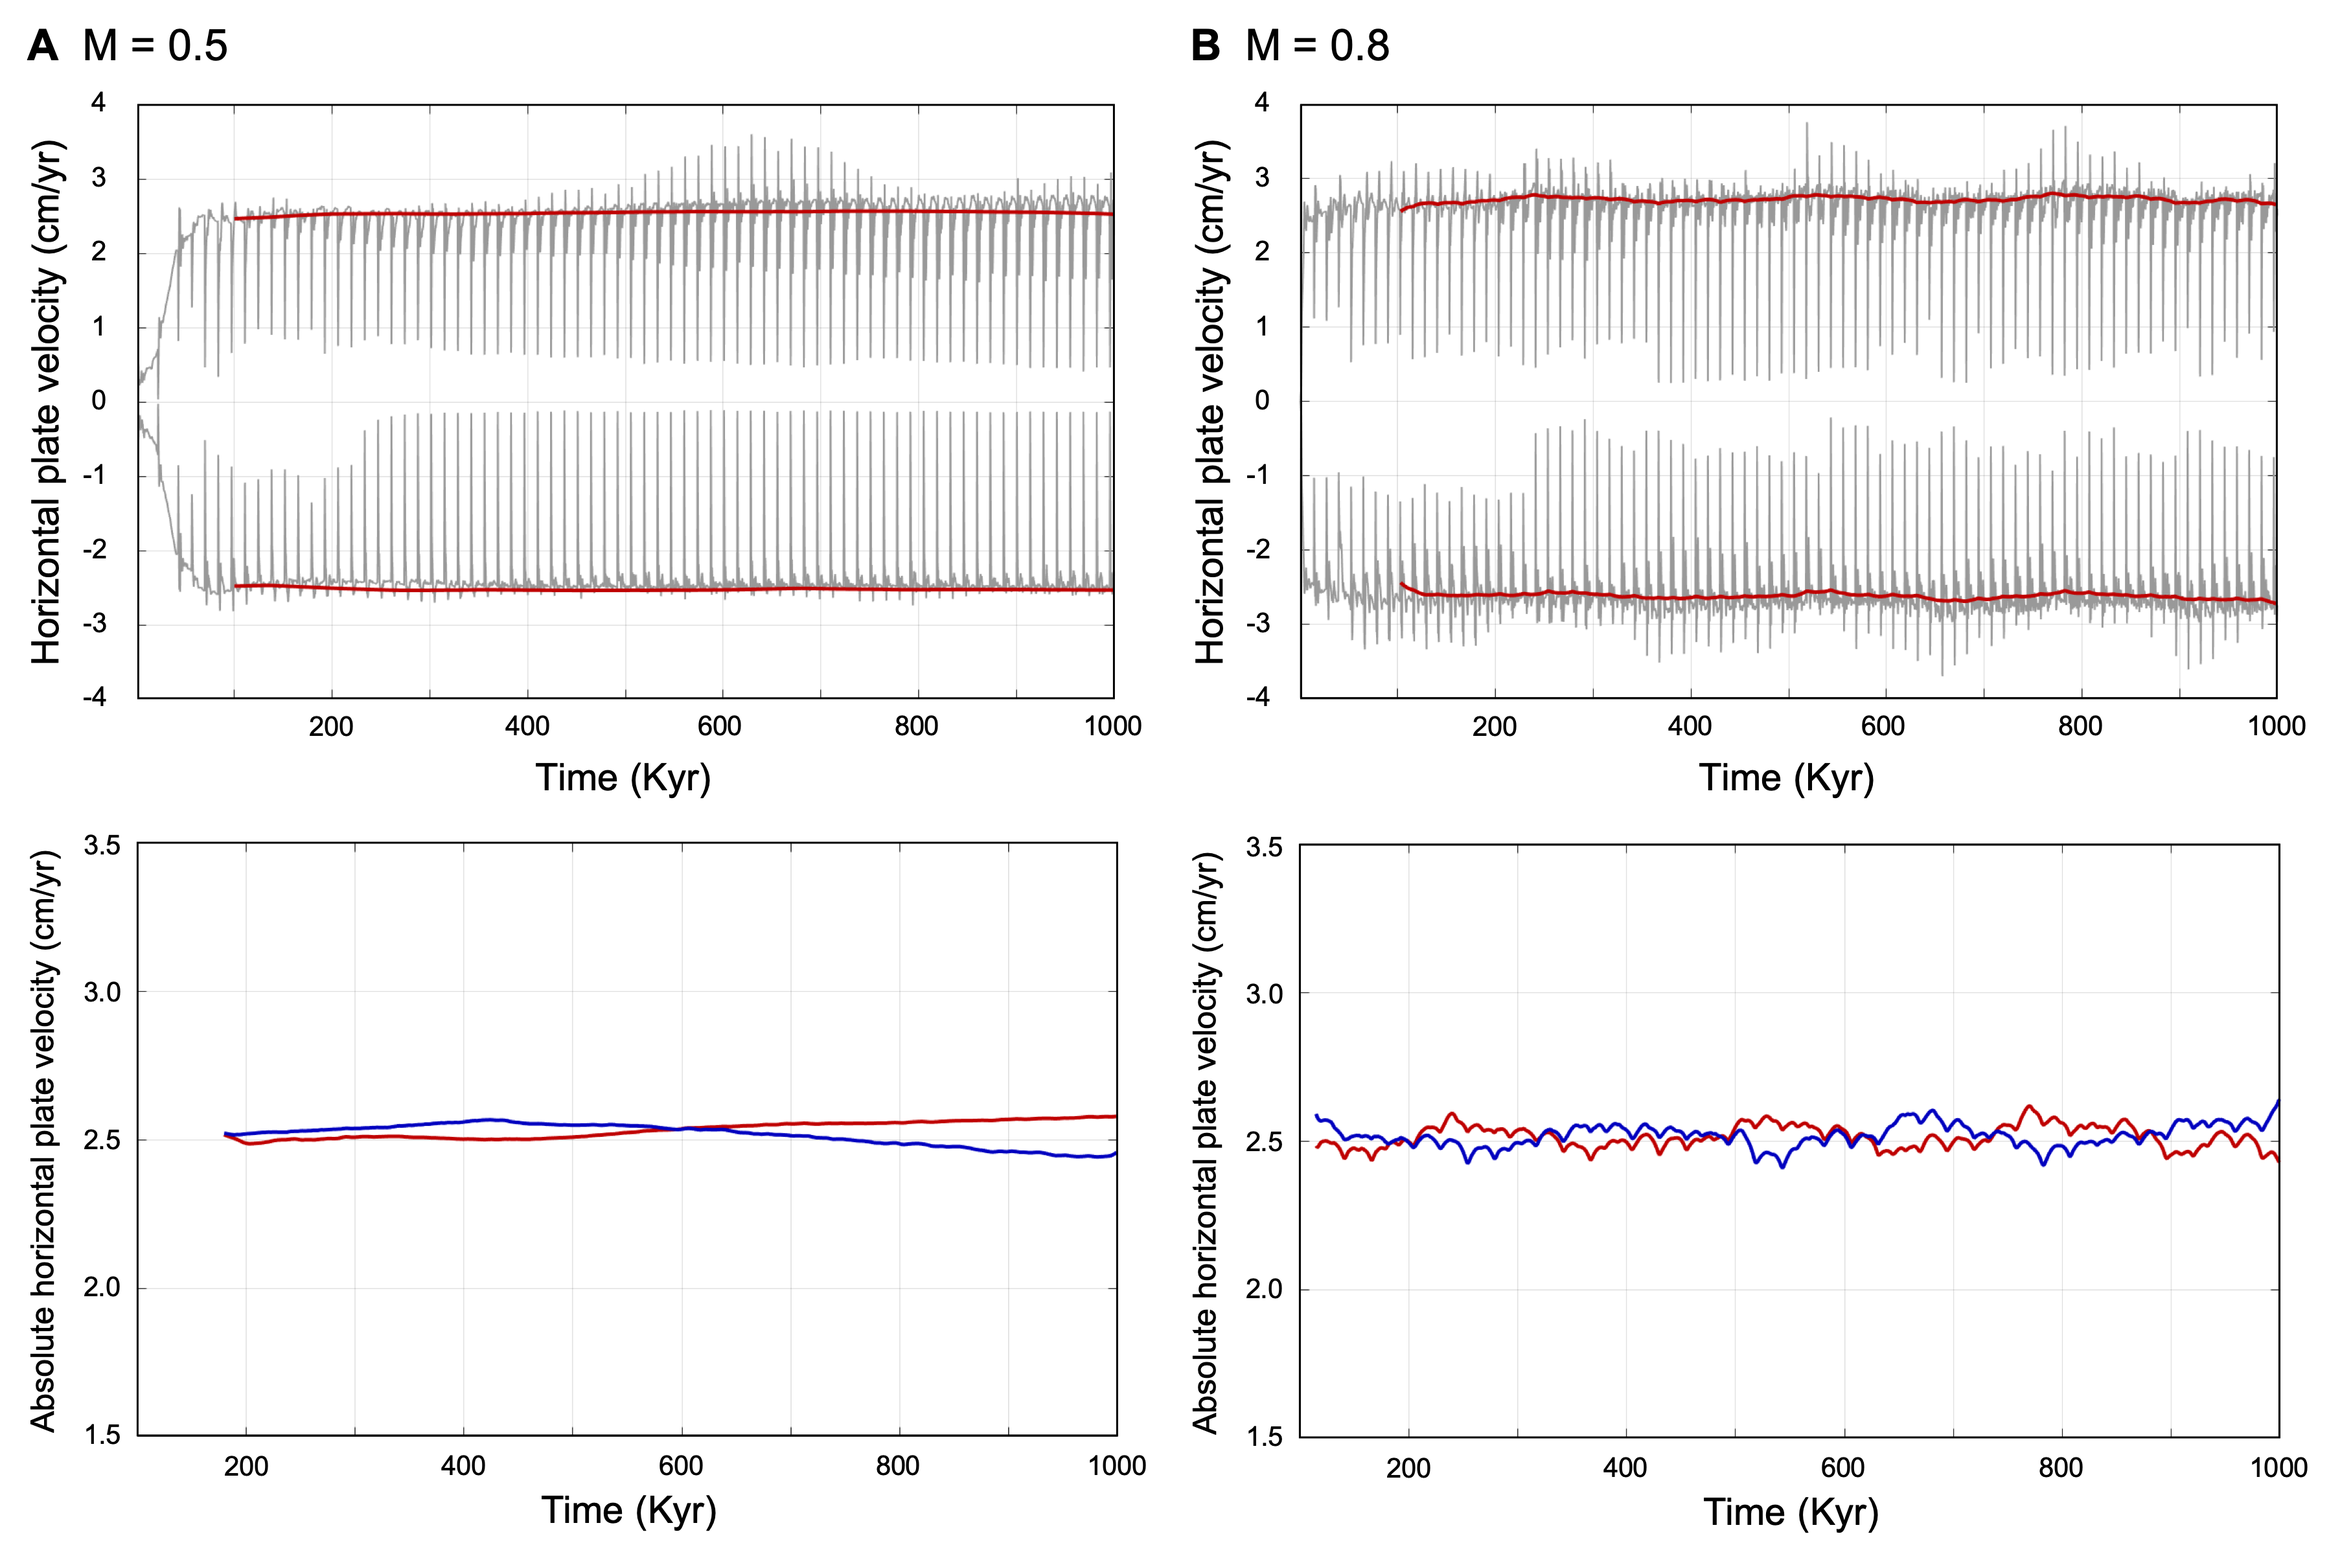
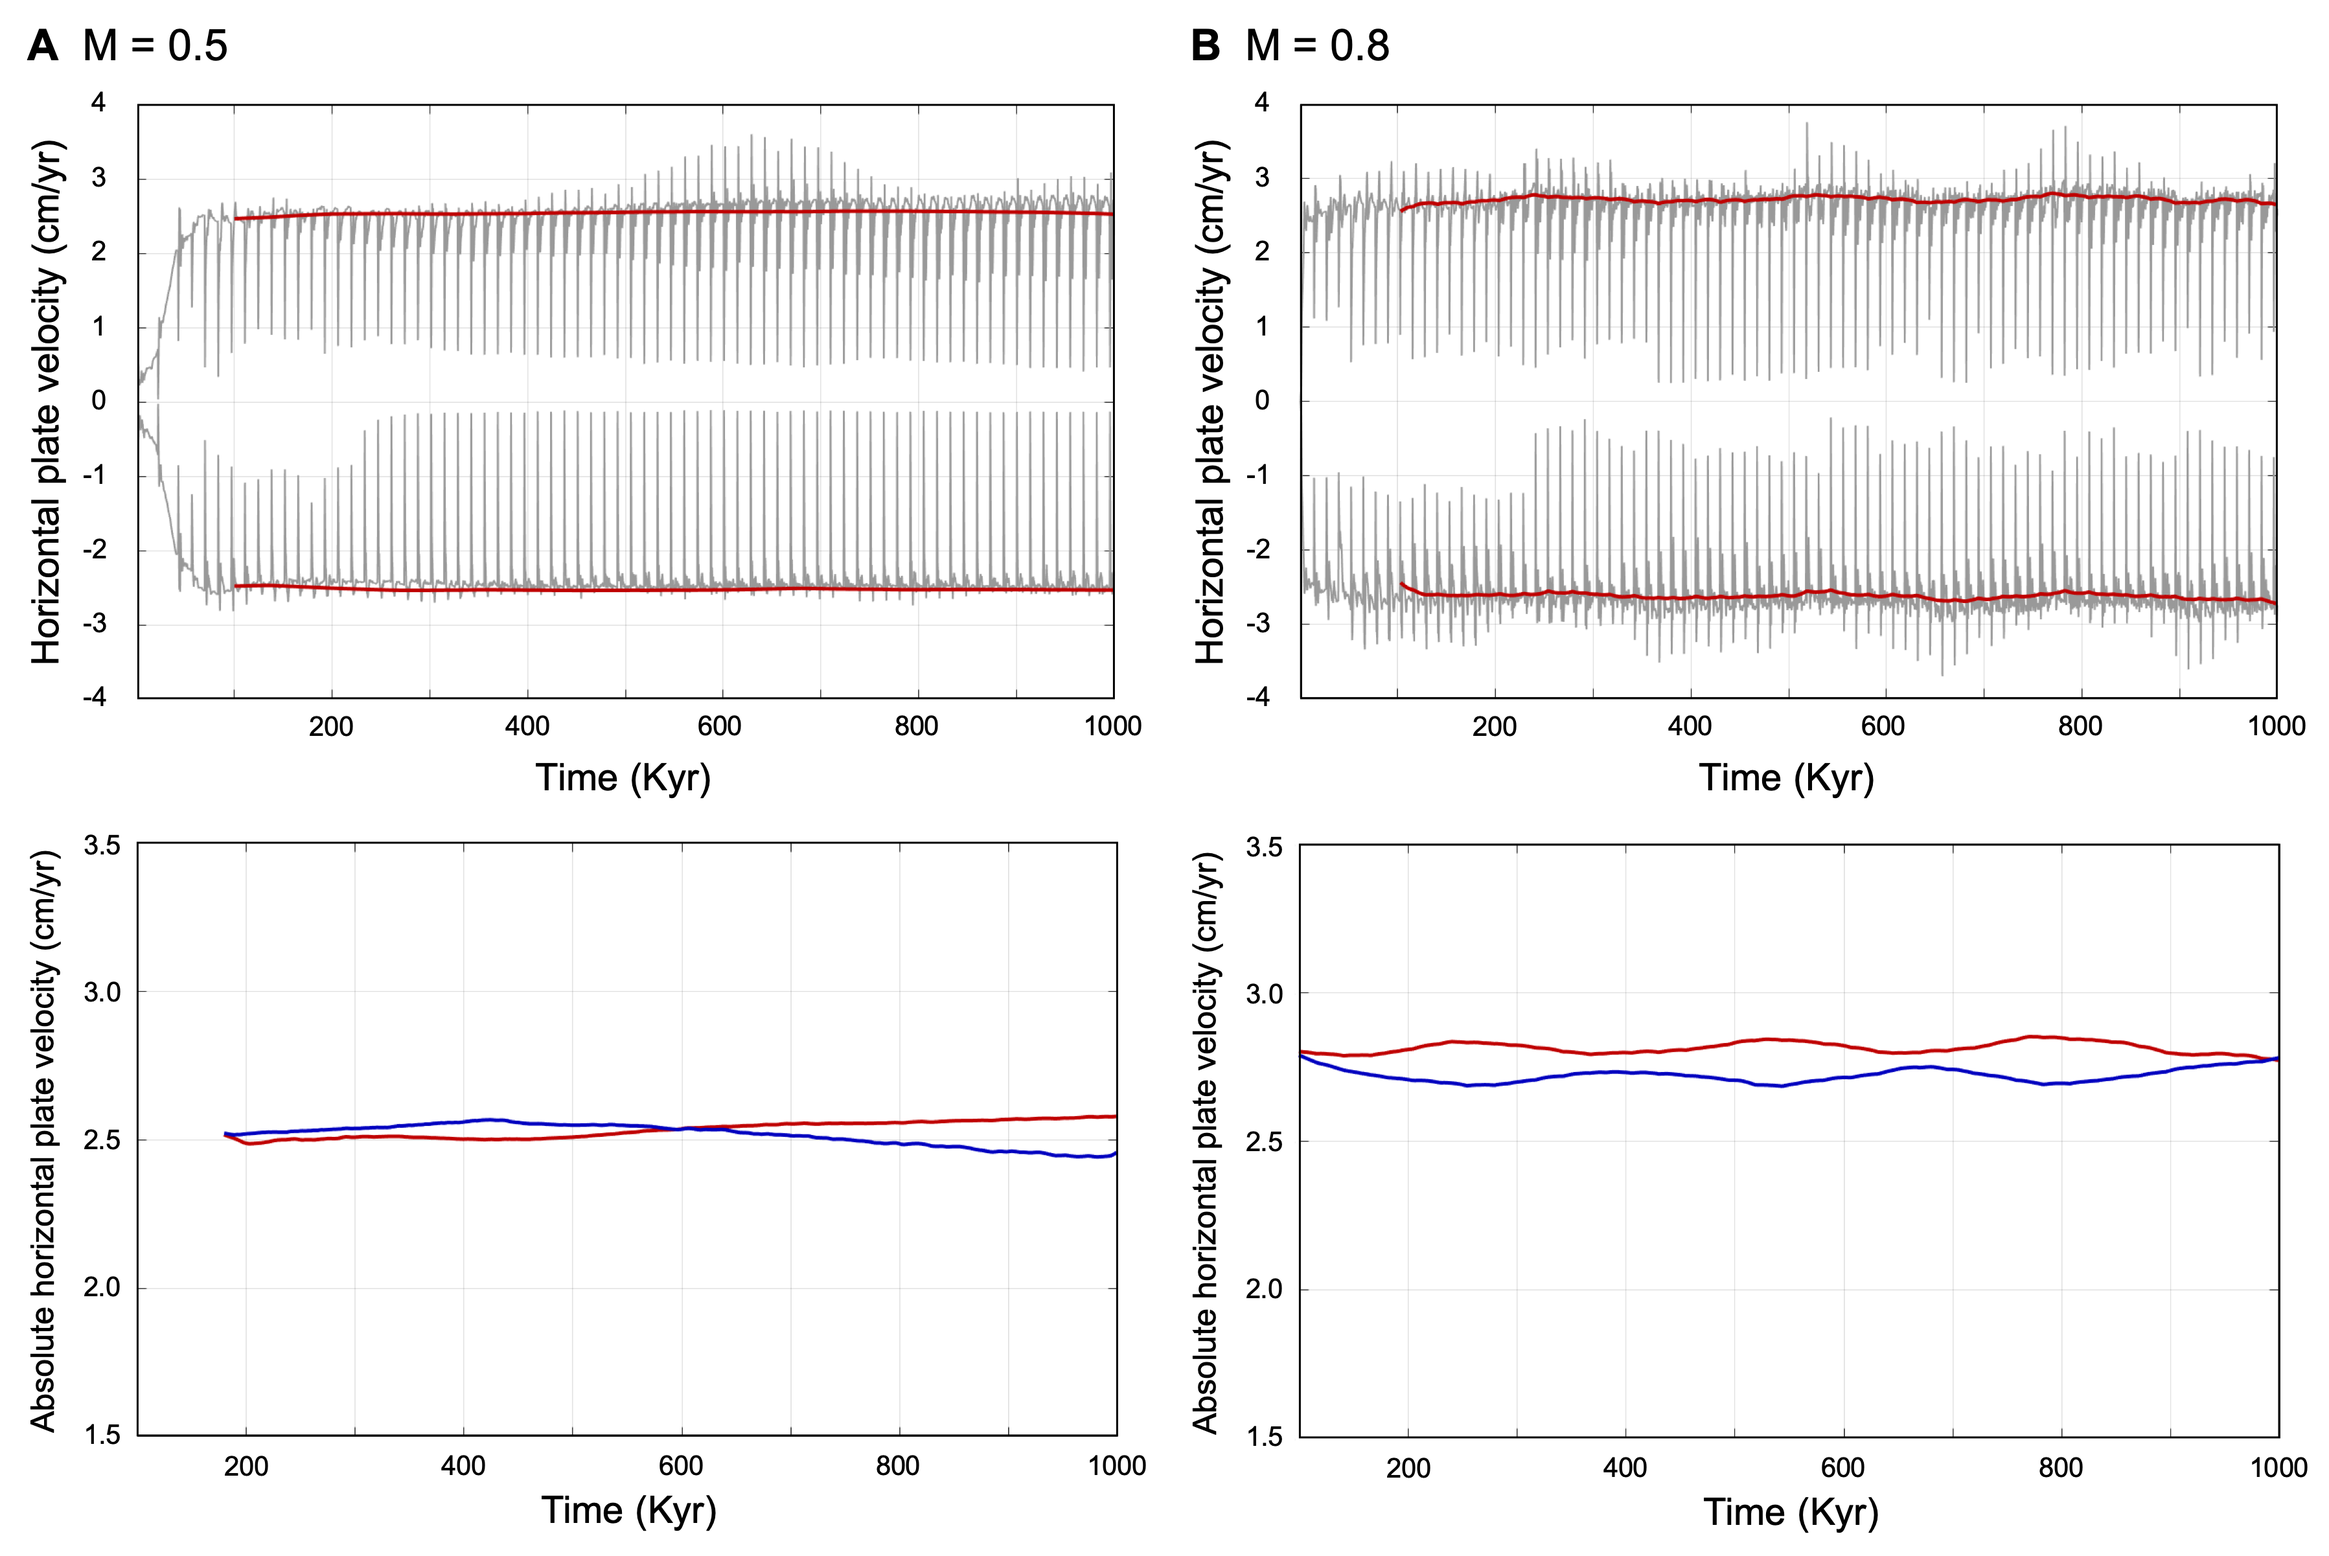
fig change

Changed region(s): [[0.5608, 0.6557, 0.9969, 0.7494]]

diff --git a/thesis.tex b/thesis.tex
@@ -462,7 +462,7 @@ Faulting styles in the models with this force boundary condition show the same c
 	\label{fig:f0fault}
 \end{figure}
 
-Filtered mean plate velocities are overall constant in time. $\overline{\boldsymbol{v}_x}$ is supposed to be constant because net forces on the side boundary nodes are zero and therefore the time rate of change of velocity should be zero on those nodes. For M = 0.5, $\overline{\boldsymbol{v}_x}$ of the plate moving to the left is 2.50 cm/yr and to the right is 2.50 cm/yr (Figure \ref{fig:f0mhv}A). When M = 0.8, $\overline{\boldsymbol{v}}_{x}$ remain constant at 2.70 cm/yr on the left-moving plate and 2.80 cm/yr on the right plate until the model ends (Figure \ref{fig:f0mhv}B).
+Filtered mean plate velocities are overall constant in time. $\overline{\boldsymbol{v}_x}$ is supposed to be constant because net forces on the side boundary nodes are zero and therefore the time rate of change of velocity should be zero on those nodes. For M = 0.5, $\overline{\boldsymbol{v}_x}$ of the plate moving to the left is 2.50 cm/yr and to the right is 2.50 cm/yr (Figure \ref{fig:f0mhv}A) with error of 0.5 cm/yr. When M = 0.8, $\overline{\boldsymbol{v}}_{x}$ remain constant at 2.70 cm/yr on the left-moving plate and 2.80 cm/yr on the right plate until the model ends (Figure \ref{fig:f0mhv}B).
 
 %Mean plate velocities are overall constant in time but show minor temporal variability. $\overline{\boldsymbol{v}_x}$ is supposed to be constant because net forces on the side boundary nodes are zero and therefore the time rate of change of velocity should be zero on those nodes. However, while variability is not large compared to 2.5 cm/yr, the intended magnitude of $\overline{\boldsymbol{v}_x}$, $\overline{\boldsymbol{v}_x}$ is not exacly 2.5 cm/yr and changes over time slightly. \note[EC]{Leave only the description of the filtered velocity.} For M = 0.5, $\overline{\boldsymbol{v}_x}$ of the plate moving to the left is $-$2.50 cm/yr (Figure \ref{fig:f0mhv}A). $\overline{\boldsymbol{v}}_{x}$ of the plate moving to the right stays near this magnitude but seems to slightly increase from 2.50 cm/yr to 2.70 cm/yr by the end of the simulation. Filtered velocity do not exhibit this variability. When M = 0.8, $\overline{\boldsymbol{v}}_{x}$ remain constant at 2.70 cm/yr on the left-moving plate and 2.80 cm/yr on the right plate until the model ends (Figure \ref{fig:kmhv}B).
 %From 400 to 520 Kyrs and 780 to 900 Kyrs, $\overline{\boldsymbol{v}_x}$ of both left-and right-side reduce (Figure \ref{fig:f0m08}).
@@ -491,8 +491,8 @@ For M = 0.5, a master detachment fault forms on one side (Figure \ref{fig:fbfaul
 
 Models in this group show significant temporal variations in $\overline{\boldsymbol{v}_x}$. 
 % changes over time, although the amplitudes of abnormal peaks are great. 
-When M = 0.5, the left-side plate $\overline{\boldsymbol{v}_x}$ keep changing in the range between 1 cm/yr and 2 cm/yr. The right-side plate velocity initially increase up to 2.4 cm/yr, and decrease to 1.0 cm/yr until the model ends (Figure \ref{fig:fbmhv}A).
-When M = 0.8, plate velocities change more vigorously than other models (Figure \ref{fig:fbmhv}B). Until 250 Kyrs, the left-side plate $\overline{\boldsymbol{v}_x}$ decrease by 2.2 cm/yr, while the right-side plate  $\overline{\boldsymbol{v}_x}$ increase from 2.0 cm/yr to 2.7 cm/yr. From 250 to 380 Kyrs, left-side plate moves in constant rate and right-side plate moves slowly. From 370 to 520 Kyrs, now the left-side plate moves slowly and the right-side plate moves rapidly. From 520 to 700 Kyrs, the left-side plate $\overline{\boldsymbol{v}_x}$ increase up to 2.4 cm/yr and the right-side plate $\overline{\boldsymbol{v}_x}$ decrease to 2.1 cm/yr. From 700 to 780 Kyrs, the left-side plate moves slowly and right-side plate moves at a constant rate. After 780 Kyrs, the right-side plate moves rapidly until the model ends, while the left-side plate moves rapidly until 880 Kyrs, then moves slowly afterwards.
+When M = 0.5, the left-side plate $\overline{\boldsymbol{v}_x}$ keep changing in the range between 1 cm/yr and 2 cm/yr. The right-side plate velocity initially increase up to 2.4 cm/yr, and decrease to less than 1.0 cm/yr until the model ends (Figure \ref{fig:fbmhv}A).
+When M = 0.8, plate velocities change more vigorously than other models (Figure \ref{fig:fbmhv}B). Until 250 Kyrs, the left-side plate $\overline{\boldsymbol{v}_x}$ decrease by 2.2 cm/yr, while the right-side plate  $\overline{\boldsymbol{v}_x}$ increase from 2.0 cm/yr to 2.7 cm/yr. From 250 to 380 Kyrs, left-side plate moves in constant rate and right-side plate moves rapidly. From 380 to 520 Kyrs, now the left-side plate moves rapidly and the right-side plate moves slowly. From 520 to 700 Kyrs, the left-side plate $\overline{\boldsymbol{v}_x}$ decrease to 2.1 cm/yr and the right-side plate $\overline{\boldsymbol{v}_x}$ increase up to 2.6 cm/yr. From 700 to 780 Kyrs, the left-side plate moves rapidly and right-side plate moves at a constant rate. After 780 Kyrs, the right-side plate moves rapidly until the model ends, while the left-side plate moves rapidly until 880 Kyrs, then moves slowly afterwards.
 %Unlike velocity-driven model, force-driven model shows significant velocity changes over time. The detachment fault forms at 50Kyrs on left side of the spreading axis. After *yrs, the left plate moves slowly.
 %
 \begin{figure}[!htb]
